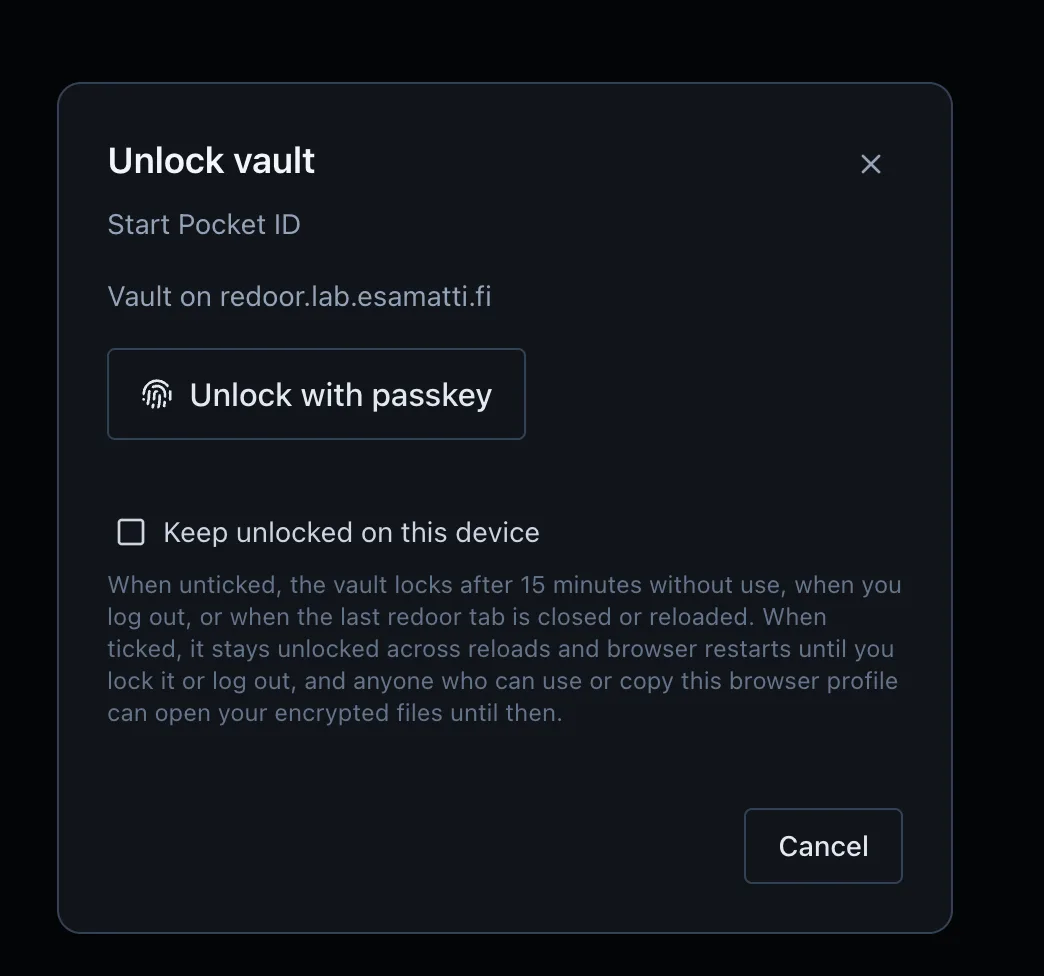
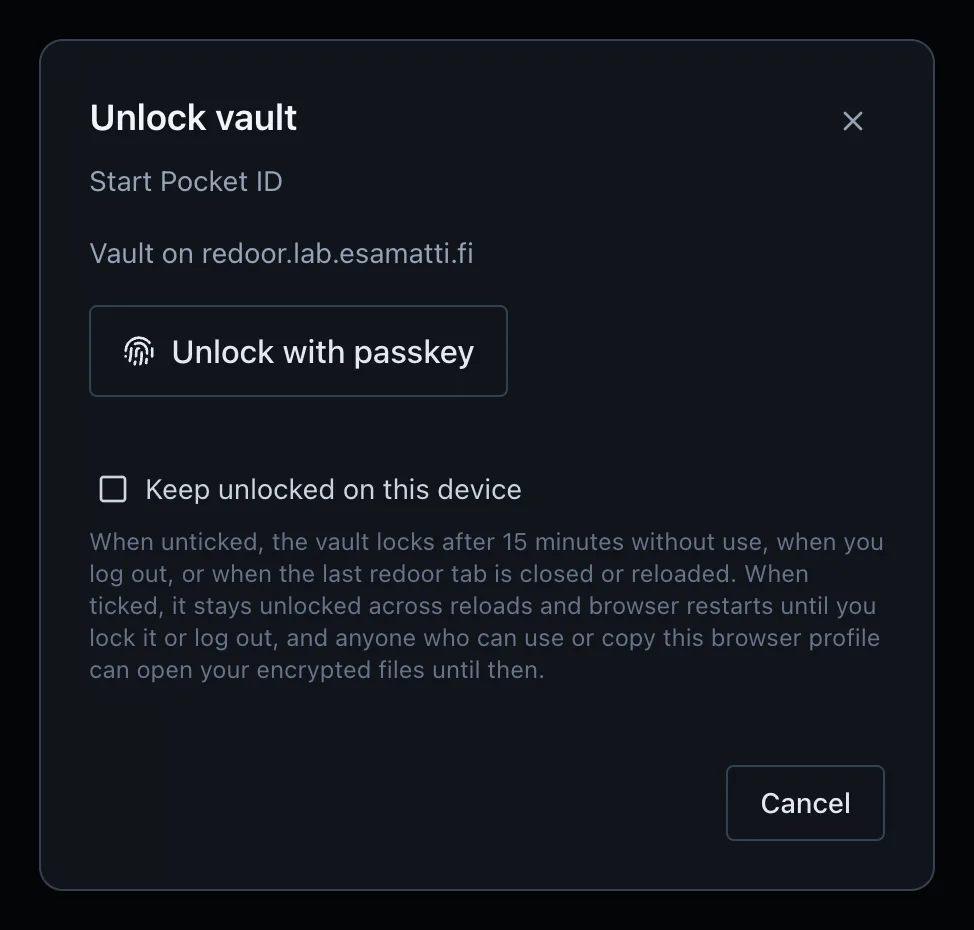
Center the unlock vault dialog in its screenshot
The source capture had uneven margins around the dialog, so it looked
off-center inside its frame on the page.

diff --git a/index.html b/index.html
@@ -757,7 +757,7 @@ footer p { margin: 6px 0; }
                     </div>
                     <div class="window front">
                         <button class="shot" type="button" data-full="screenshots/unlock_vault.webp" data-caption="Unlocking the vault with a passkey">
-                            <img src="screenshots/unlock_vault.webp" alt="Unlock vault dialog with an Unlock with passkey button" loading="lazy" width="1044" height="976">
+                            <img src="screenshots/unlock_vault.webp" alt="Unlock vault dialog with an Unlock with passkey button" loading="lazy" width="974" height="930">
                         </button>
                     </div>
                 </div>
